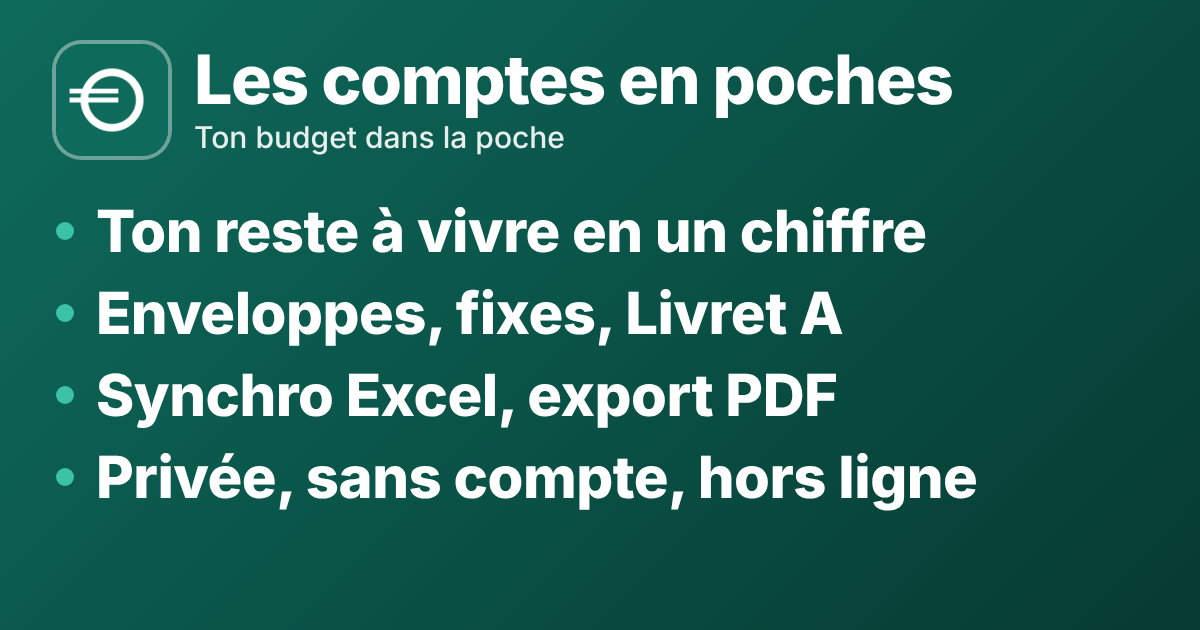
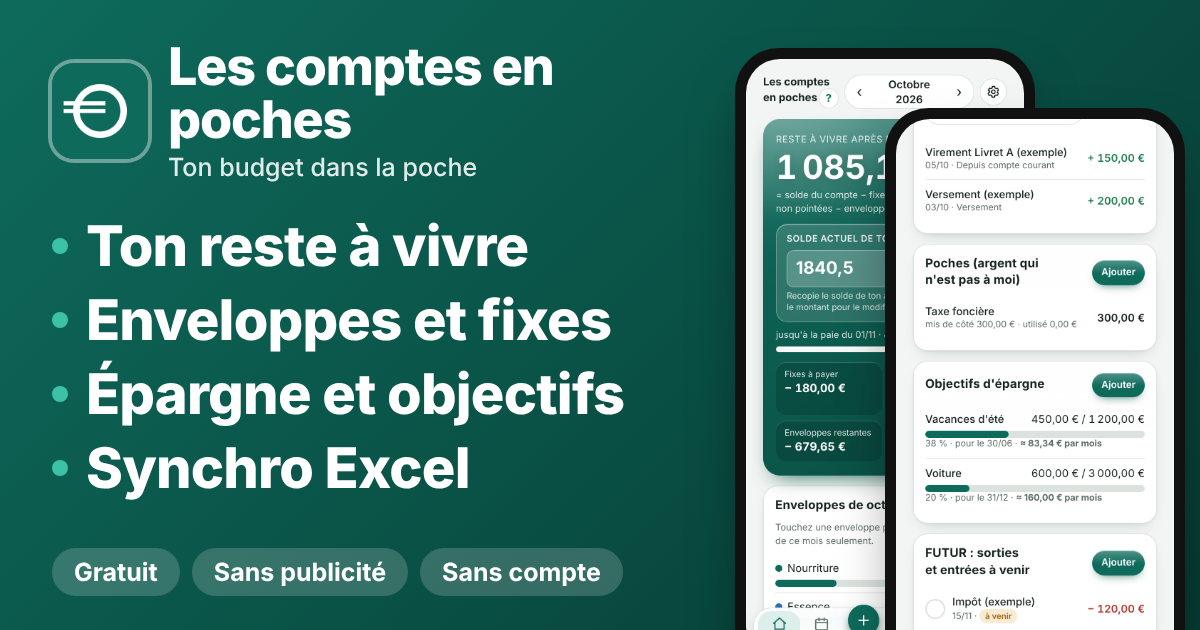
Add files via upload

diff --git a/index.html b/index.html
@@ -5,11 +5,11 @@
 <meta name="viewport" content="width=device-width,initial-scale=1,viewport-fit=cover,maximum-scale=1">
 <style>:root{color-scheme:light;padding-top:env(safe-area-inset-top,0px);padding-bottom:env(safe-area-inset-bottom,0px)}body{margin:0}img{max-width:100%}</style>
 <title>Les comptes en poches</title>
-<meta name="description" content="Les comptes en poches : reste à vivre, enveloppes, fixes, Livret A et synchro Excel. Privée, sans compte, hors connexion.">
+<meta name="description" content="Les comptes en poches : reste à vivre, enveloppes, fixes, prévision du solde, épargne et objectifs, synchro Excel. Gratuit, sans publicité, sans compte, hors connexion.">
 <meta property="og:type" content="website">
 <meta property="og:site_name" content="Les comptes en poches">
 <meta property="og:title" content="Les comptes en poches · ton budget en poche">
-<meta property="og:description" content="Reste à vivre, enveloppes, fixes, Livret A, synchro Excel. Privée, sans compte, hors connexion.">
+<meta property="og:description" content="Reste à vivre, enveloppes, fixes, prévision du solde, épargne et objectifs, synchro Excel. Gratuit, sans publicité, sans compte, hors connexion.">
 <meta property="og:image" content="https://dam-cigogne.github.io/comptes/apercu.png">
 <meta property="og:image:width" content="1200">
 <meta property="og:image:height" content="630">
@@ -1914,7 +1914,7 @@ document.addEventListener("click", ev => {
     case "imgshare": { const f = b.dataset.v; (async () => { try { const r = await fetch(f); const bl = await r.blob(); const file = new File([bl], f, {type:bl.type});
         if (navigator.canShare && navigator.canShare({files:[file]})){ try { await navigator.share({files:[file]}); } catch(e){ if (!e || e.name !== "AbortError") throw e; } }
         else await saveFile(f, await bl.arrayBuffer(), bl.type); } catch(e){ toast("Partage impossible"); } })(); break; }
-    case "fshare": { const url = "https://dam-cigogne.github.io/comptes/fiche.html", text = "Les comptes en poches : l'appli de budget simple et privée. Reste à vivre, enveloppes, fixes, Livret A, synchro Excel. Sans compte, ça marche hors connexion.";
+    case "fshare": { const url = "https://dam-cigogne.github.io/comptes/fiche.html", text = "Les comptes en poches : ton budget dans la poche, simple et lisible. Ton reste à vivre jusqu'à la paie, tes enveloppes, tes fixes à pointer, la prévision du solde, le Livret A, les poches et objectifs d'épargne, la synchro avec Excel et l'export PDF. Gratuit, sans publicité, sans compte : tout reste sur ton téléphone.";
       if (navigator.share){ navigator.share({title:"Les comptes en poches", text, url}).catch(() => {}); } else { copyText(text + "\n" + url).then(() => toast("Texte et lien copiés")); } break; }
     case "fview": window.open("https://dam-cigogne.github.io/comptes/fiche.html", "_blank", "noopener"); break;
     case "fcopy": copyText("https://dam-cigogne.github.io/comptes/fiche.html").then(() => toast("Lien copié")); break;
@@ -2161,6 +2161,9 @@ document.addEventListener("change", ev => { if (ev.target.id === "sch-a" || ev.t
 applyTheme();
 /* ===== Historique des mises à jour ===== */
 const CHANGELOG = [
+ {v:"3.1", d:"Octobre 2026", t:"Partage de l'appli plus complet", i:[
+  "« Partager avec le descriptif » envoie maintenant un texte plus complet (reste à vivre, enveloppes, prévision, épargne et objectifs, Excel, gratuit, sans compte).",
+  "Nouvelle carte d'aperçu du lien avec des captures de l'appli, et affiches mises à jour."]},
  {v:"3.0", d:"Octobre 2026", t:"Retraits et versements du Livret A", i:[
   "Ajouter › Retrait ou Versement Livret A : tu choisis maintenant si tu utilises (ou alimentes) une poche, et où va l'argent : ton compte courant ou un autre compte d'épargne.",
   "Épargne › Mouvements du Livret A › Ajouter : un nouveau choix « Contrepartie ». Sur le compte courant, l'opération est aussi ajoutée au journal ; sur un autre compte, le mouvement est noté des deux côtés.",

diff --git a/fiche.html b/fiche.html
@@ -9,7 +9,7 @@
 <meta property="og:type" content="website">
 <meta property="og:site_name" content="Les comptes en poches">
 <meta property="og:title" content="Les comptes en poches · ton budget en poche">
-<meta property="og:description" content="Reste à vivre, enveloppes, fixes, Livret A, synchro Excel. Privée, sans compte, hors connexion.">
+<meta property="og:description" content="Reste à vivre, enveloppes, fixes, prévision du solde, épargne et objectifs, synchro Excel. Gratuit, sans publicité, sans compte, hors connexion.">
 <meta property="og:image" content="https://dam-cigogne.github.io/comptes/apercu.png">
 <meta property="og:image:width" content="1200">
 <meta property="og:image:height" content="630">
@@ -79,7 +79,7 @@ a{color:var(--acc)}
 <div class="card"><h3>Sur Android</h3><p>Ouvre le lien dans <b>Chrome</b>, touche le menu <b>⋮</b>, puis <b>Installer l'application</b> (ou <b>Ajouter à l'écran d'accueil</b>). Ouvre ensuite l'appli avec son icône.</p></div>
 <div class="card"><h3>Où sont tes données ?</h3><p>Sur l'appareil où l'appli est installée, nulle part ailleurs : pas de compte, pas de serveur. Pour les passer sur un autre appareil, fais une sauvegarde (Réglages) et restaure-la sur l'autre appareil. Les appareils ne se synchronisent pas tout seuls.</p><p style="margin-top:8px"><a href="index.html">Ouvrir l'appli</a></p></div>
 
-<footer>Fiche mise à jour le 26 octobre 2026 · version de l'appli 2.9</footer>
+<footer>Fiche mise à jour le 27 octobre 2026 · version de l'appli 3.1</footer>
 </main>
 </body>
 </html>

diff --git a/sw.js b/sw.js
@@ -1,4 +1,4 @@
-const C = 'comptes-v58';
+const C = 'comptes-v59';
 const SHELL = ['./', './index.html', './manifest.json', './icon-180.png', './icon-192.png', './icon-512.png',
   'https://cdnjs.cloudflare.com/ajax/libs/xlsx/0.18.5/xlsx.full.min.js'];
 const FONT_CSS = 'https://fonts.googleapis.com/css2?family=Bricolage+Grotesque:wght@600;700&family=Instrument+Sans:wght@400;500;600&display=swap';
